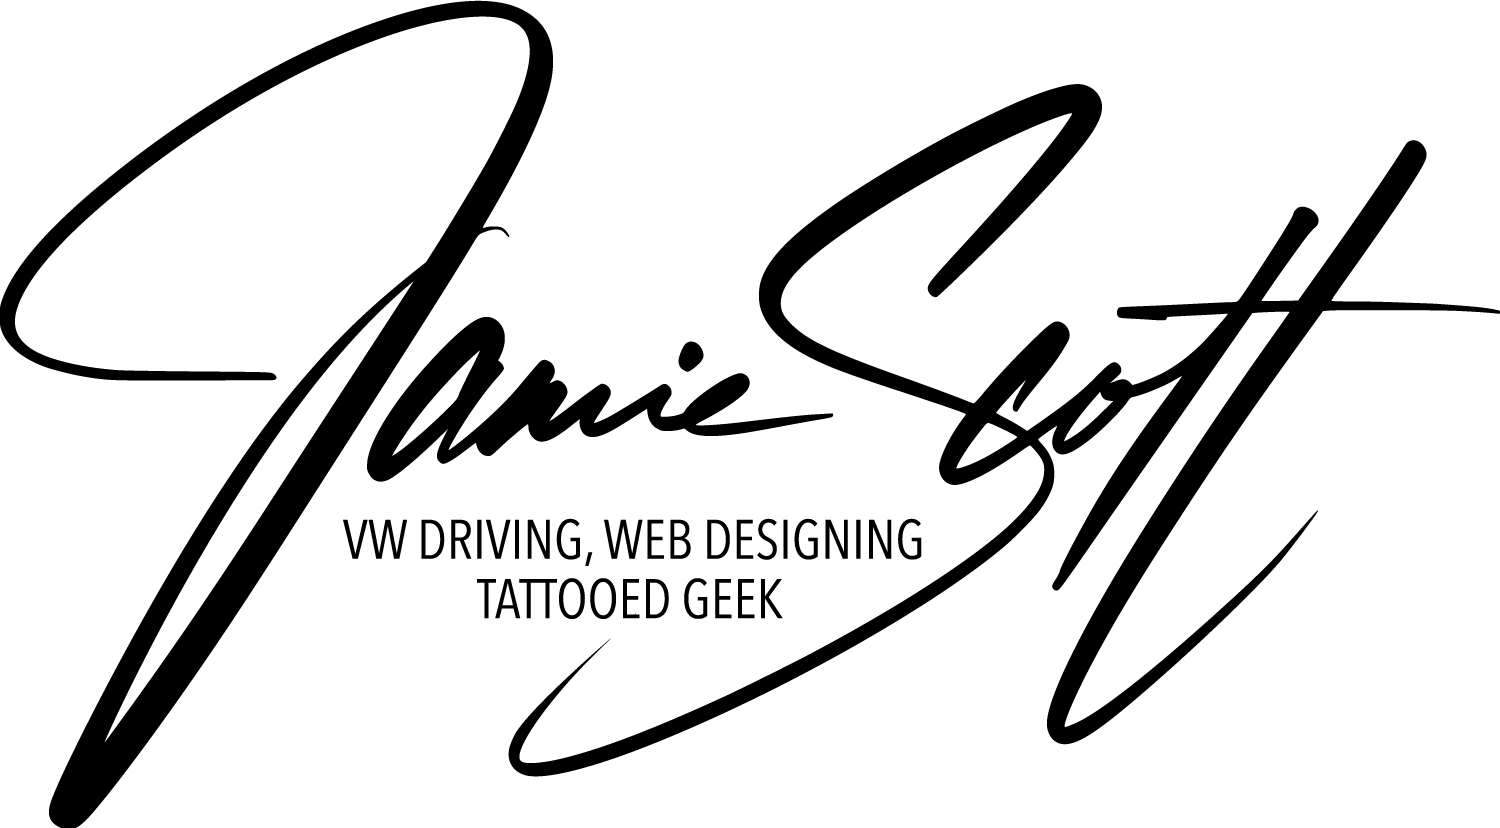
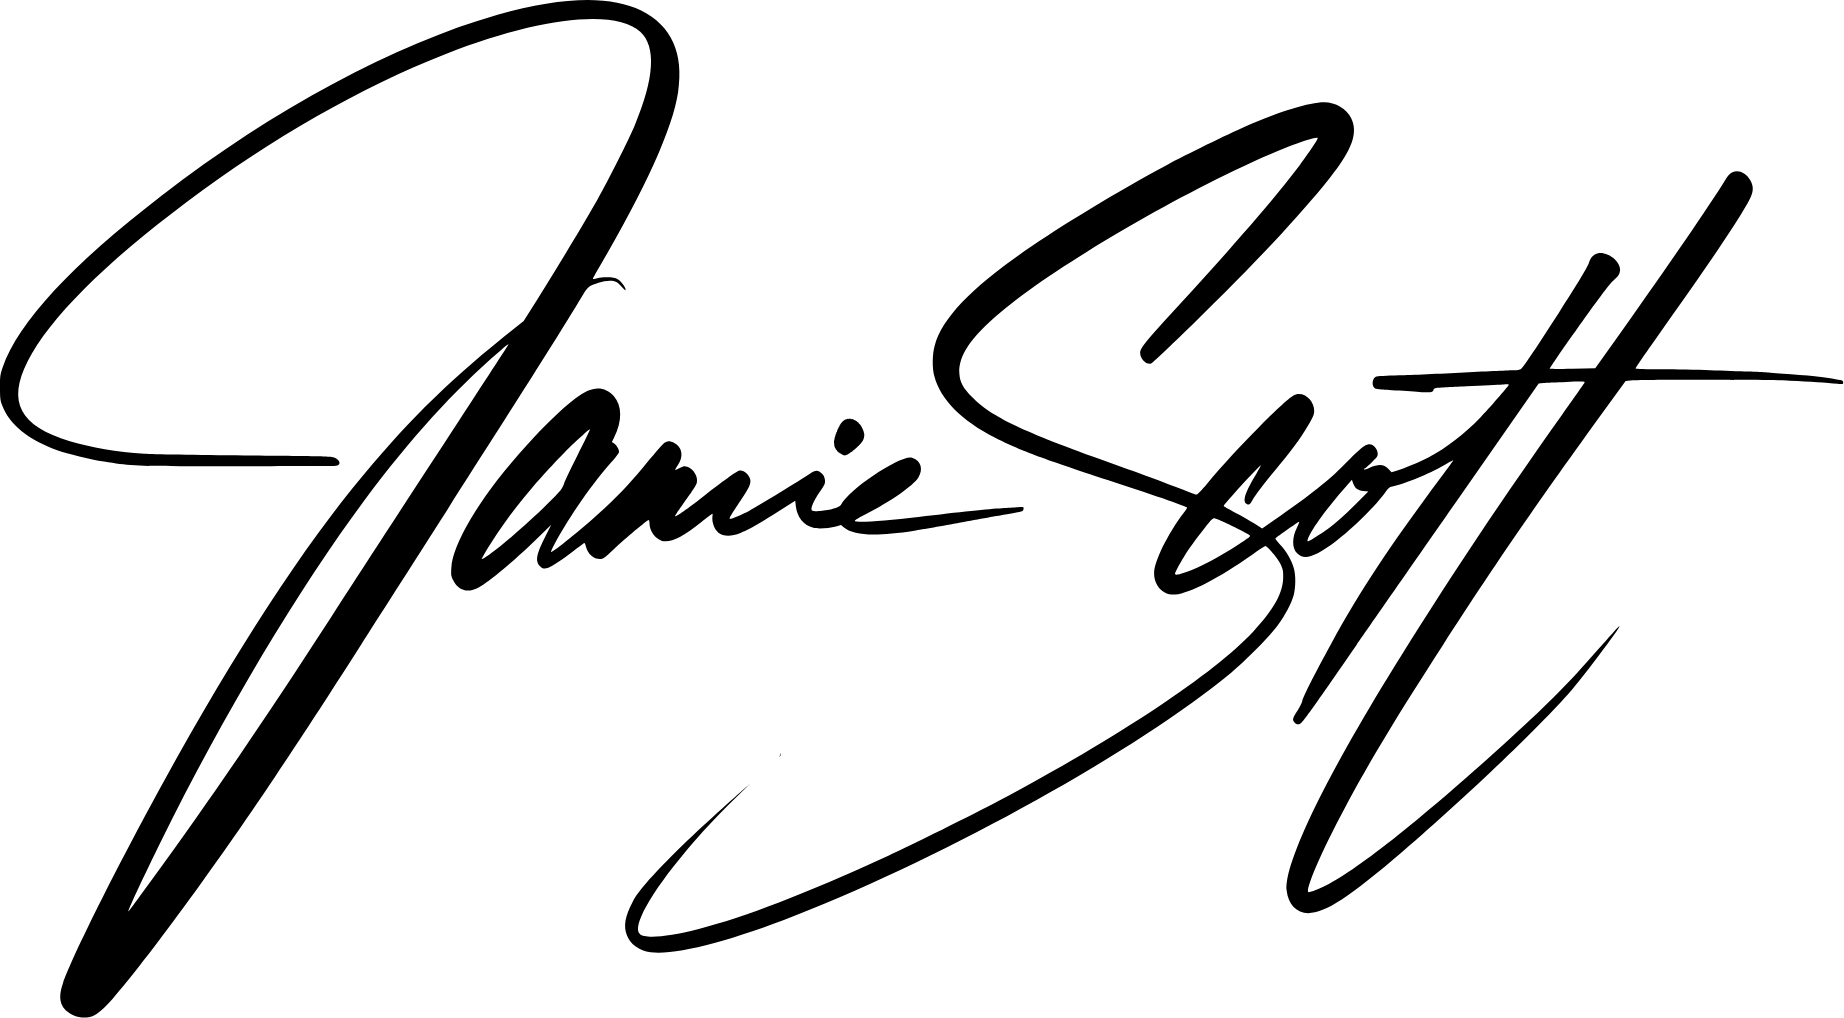
updating email signature assets

diff --git a/email-signature.html b/email-signature.html
@@ -1,0 +1,94 @@
+<!DOCTYPE html>
+<html lang="en">
+<head>
+  <meta charset="UTF-8">
+  <meta name="viewport" content="width=device-width, initial-scale=1.0">
+  <title>Document</title>
+</head>
+<body>
+  <table role="presentation" border="0" cellpadding="0" cellspacing="0" width="100%" style="border-collapse:collapse">
+    <tr>
+      <td role="presentation" style="padding:0">
+        <table role="presentation" border="0" cellpadding="0" cellspacing="0"
+          style="border-collapse:collapse;width:100%;max-width:600px;margin:20px 0 0;font-family:Arial,sans-serif;text-align:left">
+          <tr>
+            <td role="presentation" style="padding:16px 24px 32px;width:600px">
+              <table role="presentation" border="0" cellpadding="0" cellspacing="0" width="100%"
+                style="border-collapse:collapse">
+                <tr>
+                  <td role="presentation" style="padding:0">
+                    <table>
+                      <td role="presentation"
+                        style="padding:0 10px 0 0;display:inline-block;text-align:center;border-right:1px solid #000">
+                        <table role="presentation" border="0" cellpadding="0" cellspacing="0"
+                          style="border-collapse:collapse;text-align:center">
+                          <tr>
+                            <td role="presentation"
+                              style="padding:10px 0 0;display:inline-block;vertical-align:top;width:200px"><a
+                                href="https://jamie-scott.co.uk" target="_blank"><img
+                                  src="http://jamie-scott.co.uk/assets/images/email-signature/profile-picture.png"
+                                  width="100" border="0" alt="An image of Jamie peering up at the camera with a black beanie hat on." style="width:100px;vertical-align:top"></a></td>
+                          </tr>
+                          <tr>
+                            <td role="presentation" style="padding:15px 0 0"><a href="https://jamie-scott.co.uk"
+                                target="_blank"><img src="http://jamie-scott.co.uk/assets/images/email-signature/signature.png" width="240"
+                                  border="0" alt="An image representing Jamie's signature" style="width:140px;vertical-align:top"></a></td>
+                          </tr>
+                        </table>
+                      </td>
+                      <td role="presentation" style="padding:0 0 0 10px;display:inline-block">
+                        <table role="presentation" border="0" cellpadding="0" cellspacing="0"
+                          style="border-collapse:collapse">
+                          <tr>
+                            <td role="presentation" style="padding:4px 0">
+                              <table role="presentation" border="0" cellpadding="0" cellspacing="0"
+                                style="border-collapse:collapse">
+                                <tr>
+                                  <td role="presentation" style="padding:0;font-size:12px;line-height:24px;color:#656565">
+                                    <span style="color:#656565;white-space:nowrap"><span
+                                        style="color:#656565;font-weight:700">m:</span>&nbsp;<a href="tel:+4407885548018"
+                                        target="_blank"
+                                        style="color:#656565;white-space:nowrap;text-decoration:none!important">+44 07885
+                                        548018</a></span></td>
+                                </tr>
+                                <tr>
+                                  <td role="presentation" style="padding:0;font-size:12px;line-height:24px;color:#656565">
+                                    <span style="color:#656565;white-space:nowrap"><span
+                                        style="color:#656565;font-weight:700">e:</span>&nbsp;<a
+                                        href="mailto:jamie@jamie-scott.co.uk" target="_blank"
+                                        style="color:#656565;white-space:nowrap;text-decoration:none!important">jamie@jamie-scott.co.uk</a></span>
+                                  </td>
+                                </tr>
+                                <tr>
+                                  <td role="presentation" style="padding:0;font-size:12px;line-height:24px;color:#656565">
+                                    <span style="color:#656565;white-space:nowrap"><span
+                                        style="color:#656565;font-weight:700">w:</span>&nbsp;<a
+                                        href="https://jamie-scott.co.uk" target="_blank"
+                                        style="color:#656565;white-space:nowrap;text-decoration:none!important">jamie-scott.co.uk</a></span>
+                                  </td>
+                                </tr>
+                                <tr>
+                                  <td role="presentation" style="padding:0;font-size:12px;line-height:24px;color:#656565">
+                                    <span style="color:#656565;white-space:nowrap"><span
+                                        style="color:#656565;font-weight:700">in:</span>&nbsp;<a
+                                        href="https://www.linkedin.com/in/jamiemscott/" target="_blank"
+                                        style="color:#656565;white-space:nowrap;text-decoration:none!important">linkedin.com/in/jamiemscott/</a></span>
+                                  </td>
+                                </tr>
+                              </table>
+                            </td>
+                          </tr>
+                        </table>
+                      </td>
+                    </table>
+                  </td>
+                </tr>
+              </table>
+            </td>
+          </tr>
+        </table>
+      </td>
+    </tr>
+  </table>
+</body>
+</html>
